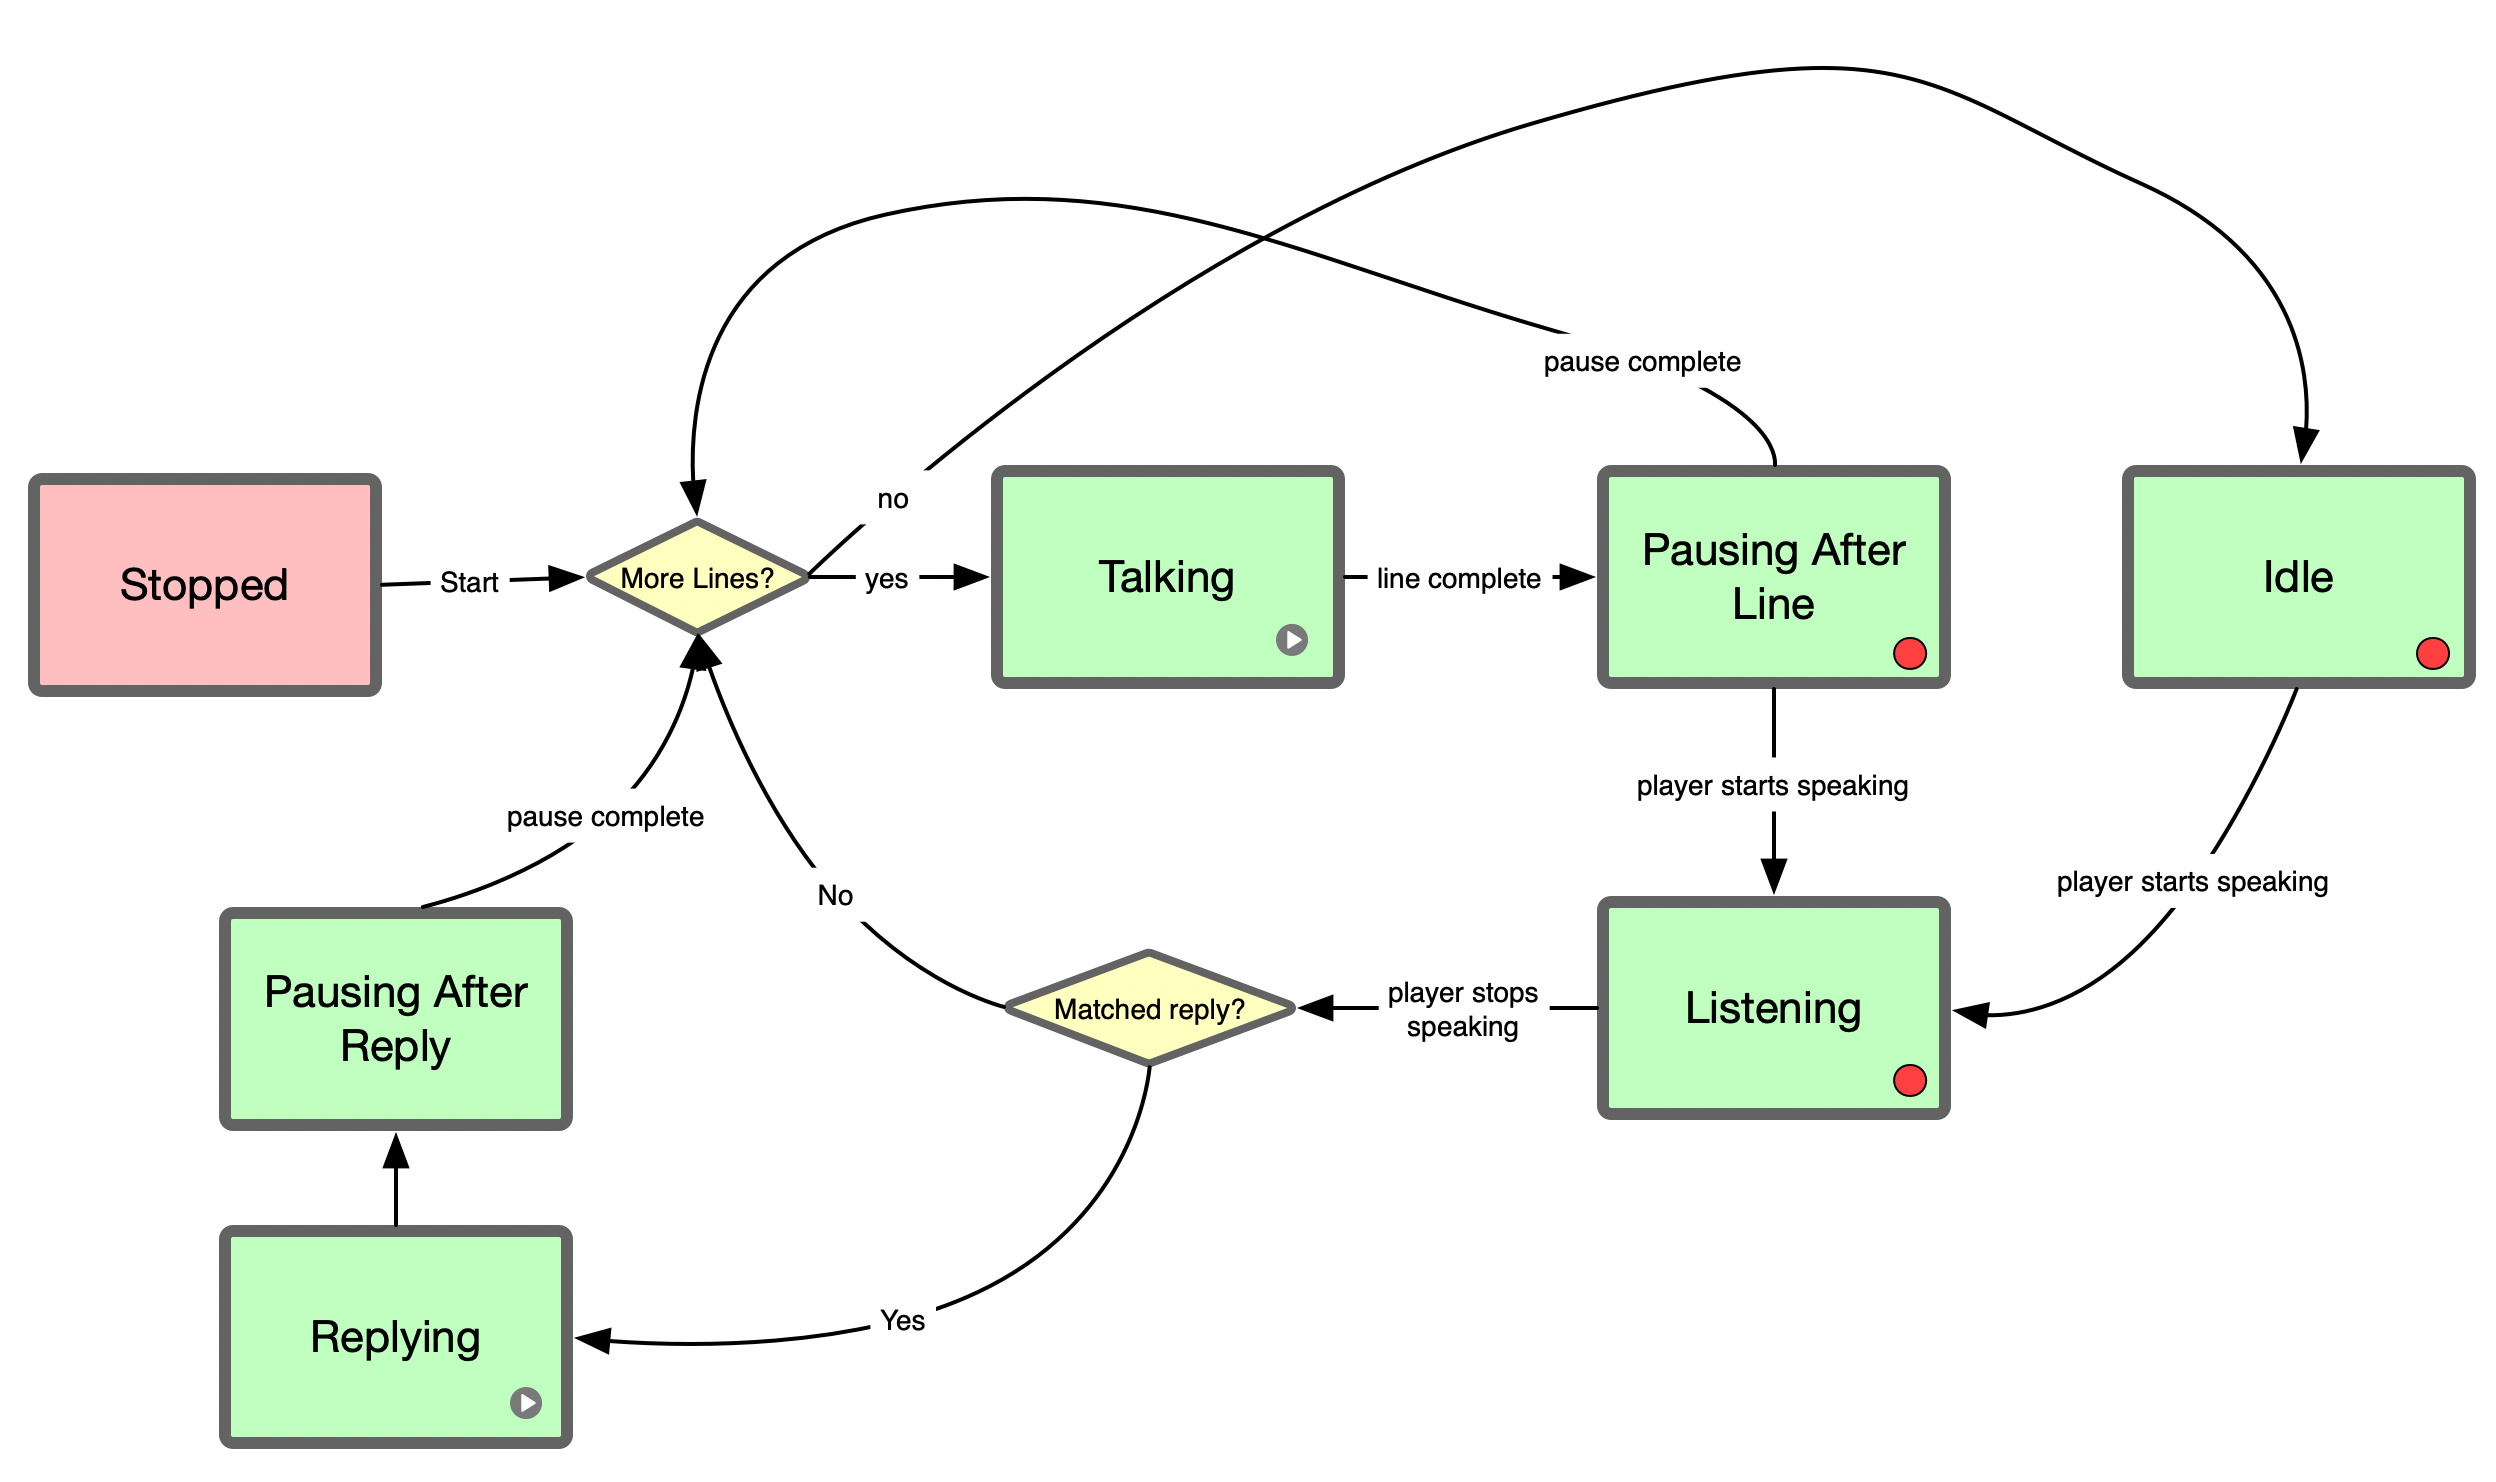
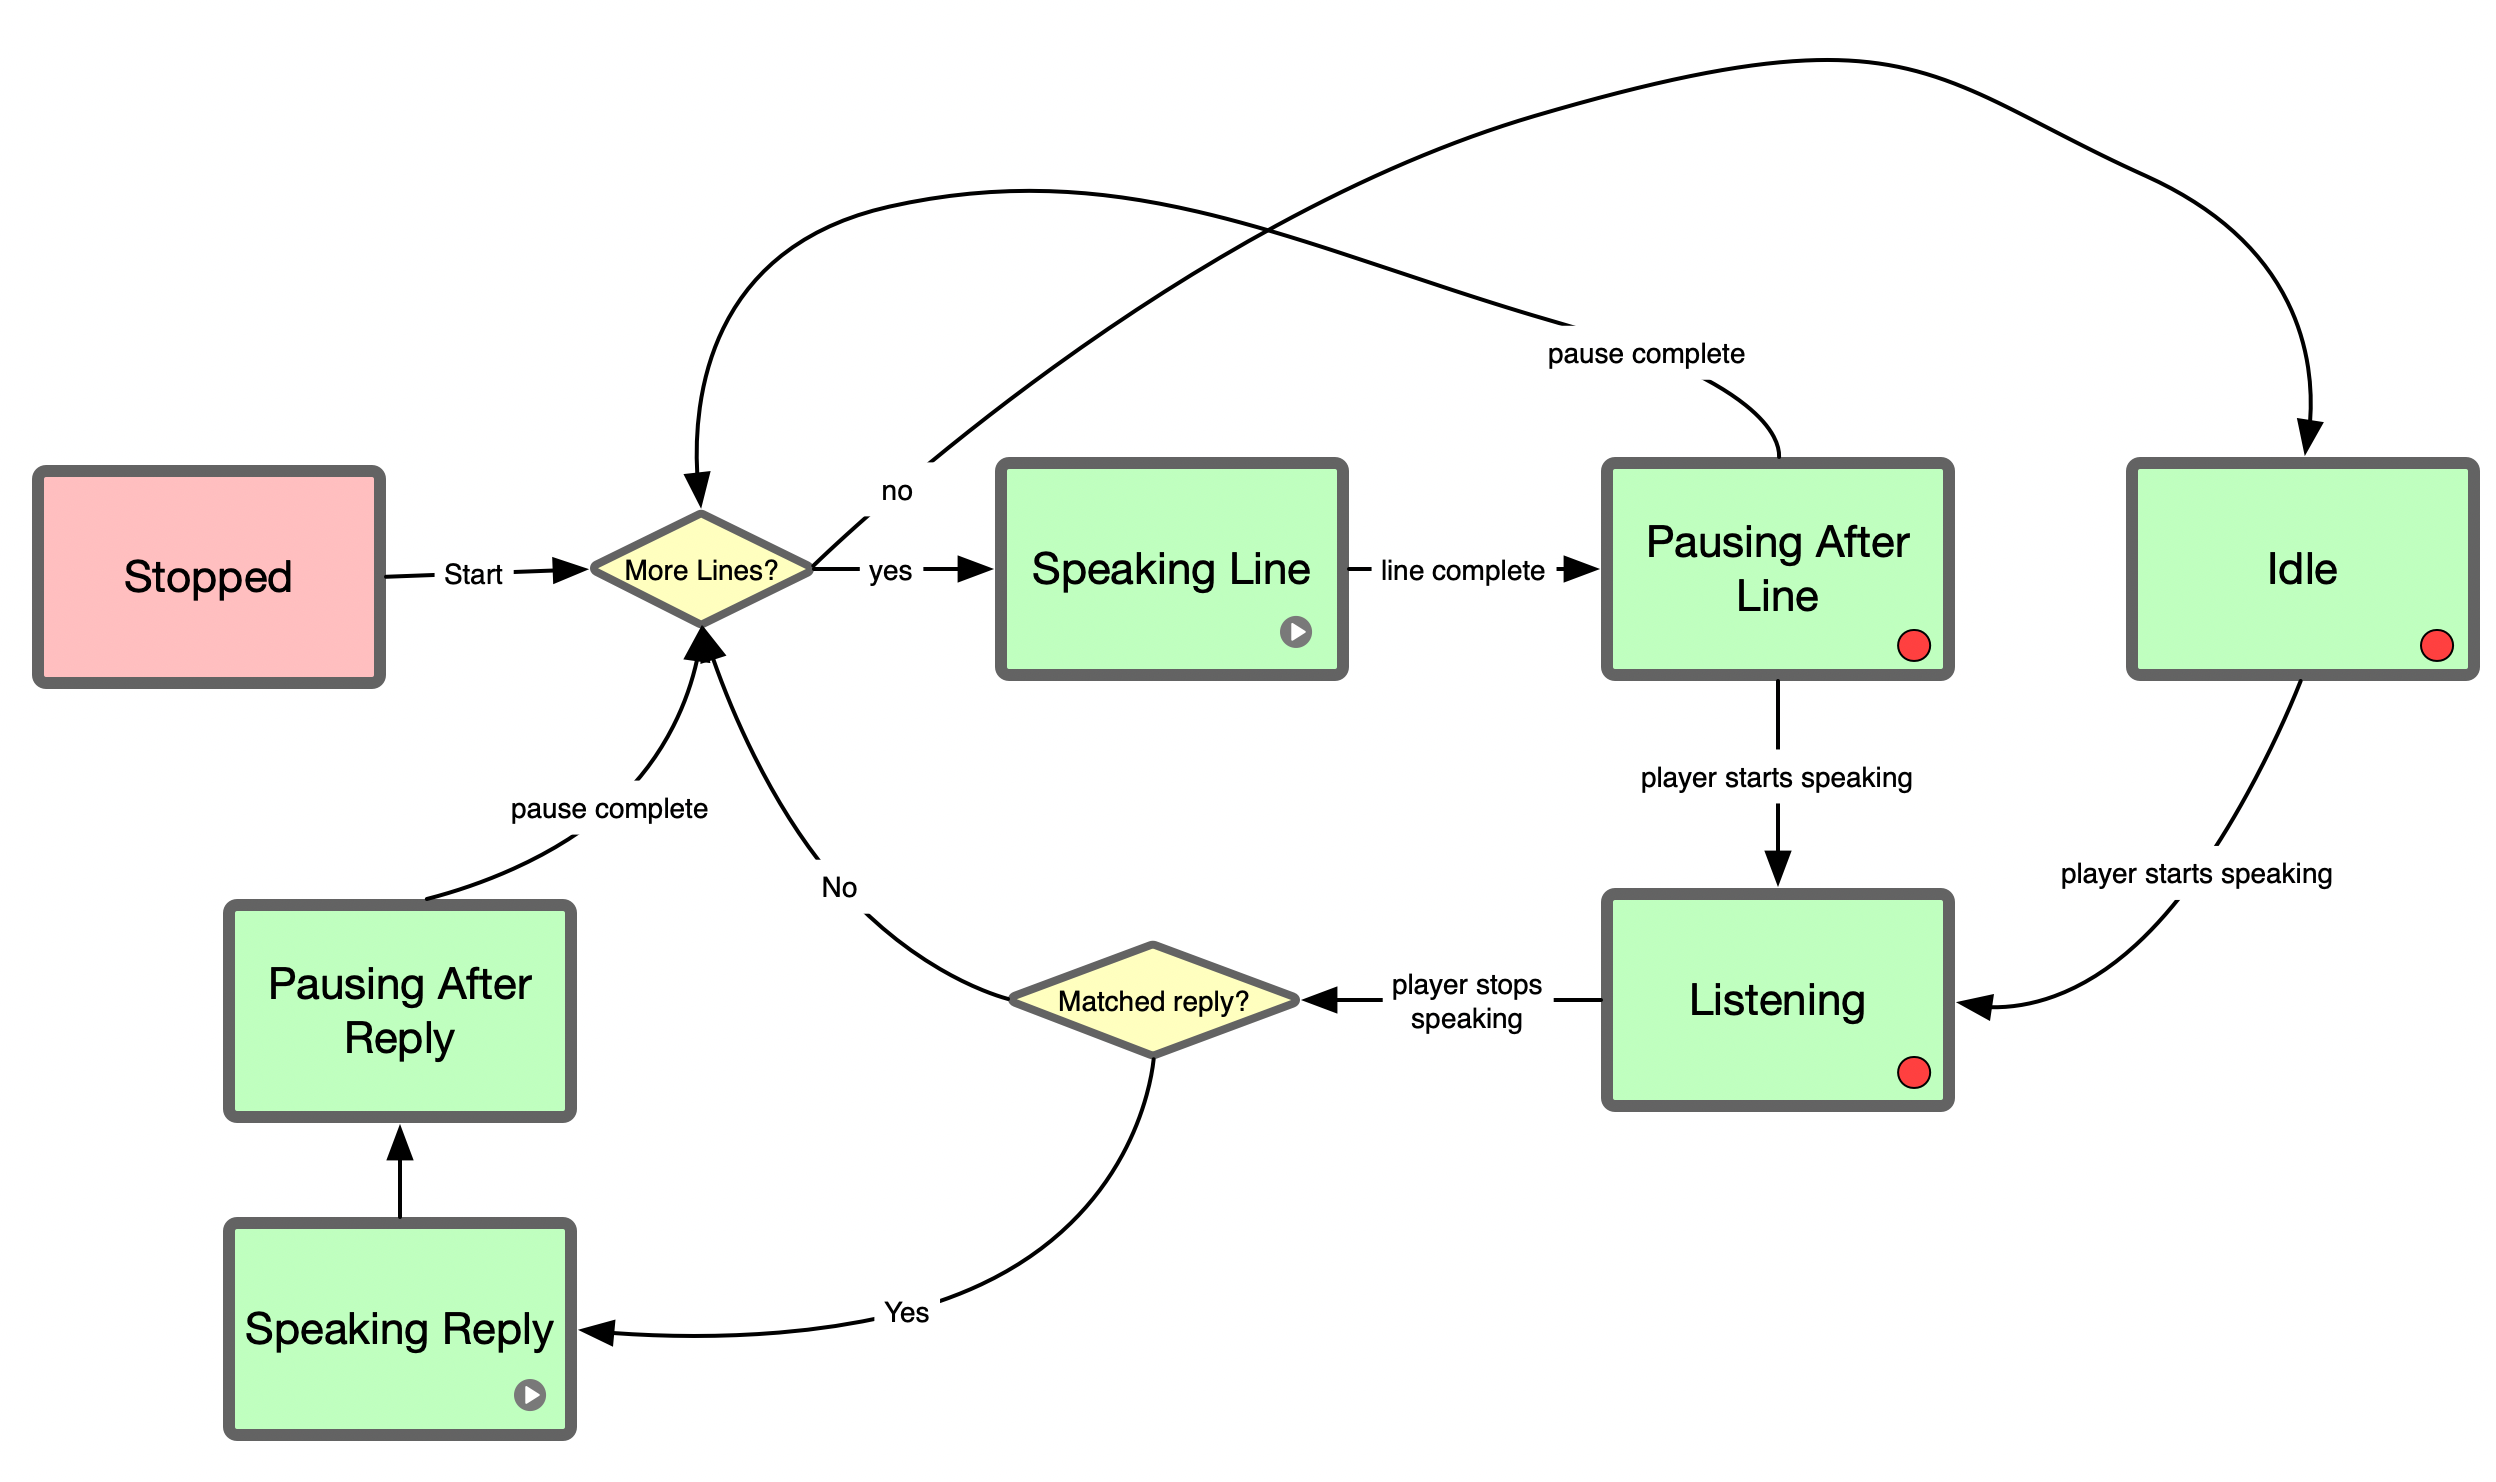
Added matching for replies.

diff --git a/src/conversations/ConversationManager.ts b/src/conversations/ConversationManager.ts
@@ -5,7 +5,7 @@ import {setSpeechAudioSpeakingFace} from "facesCommon/interactions/faceEventUtil
 import {UNSPECIFIED_NAME} from "persistence/projects";
 
 import {Emotion, FakeSpeechAudio, ISpeechAudio} from 'sl-web-face';
-import {Spiel} from 'sl-spiel';
+import {Spiel, SpielLine, SpielReply} from 'sl-spiel';
 import {calcEndOfDialoguePause, Recognizer} from "sl-web-speech";
 
 // See README.md for a description of the ConversationManager's state machine.
@@ -33,12 +33,13 @@ class ConversationManager {
   private _onSetEmotion: SetEmotionCallback|null;
   private _onTranscribe: TranscribeCallback|null;
   private _pendingPauseDuration: number;
+  private _pendingReply: SpielReply|null;
   private _recognizer: Recognizer|null;
   private _speedMultiplier: number;
   private _spiel: Spiel|null;
   private _spielName: string;
   private _state: ConversationState;
-  private _speechAudioIndex: SpeechAudioIndex|null;
+  private _speechAudioIndex: SpeechAudioIndex;
   
   constructor() {
     this._conversationSpeed = ConversationSpeed.SLOW;
@@ -48,6 +49,7 @@ class ConversationManager {
     this._onSetEmotion = null;
     this._onTranscribe = null;
     this._pendingPauseDuration = 0;
+    this._pendingReply = null;
     this._recognizer = null;
     this._speedMultiplier = getMultiplierForConversationSpeed(this._conversationSpeed);
     this._spiel = null;
@@ -55,8 +57,6 @@ class ConversationManager {
     this._state = ConversationState.STOPPED;
     this._speechAudioIndex = new SpeechAudioIndex();
   }
-
-  get state() { return this._state; }
   
   private _canStartListening(state:ConversationState) {
     return state === ConversationState.IDLE || state === ConversationState.PAUSE_AFTER_LINE;
@@ -89,9 +89,141 @@ class ConversationManager {
       this._goToStopped();
     }
   }
+  
+  private _handlePartial(text:string) {
+    if (!this._spiel) throw Error('Unexpected');
+    try {
+      this._lastPartialText = text;
+      if (this._state === ConversationState.LISTENING) {
+        this._pendingReply = this._spiel.checkForMatch(text);
+        if (this._pendingReply) return this._goToSpeakingReply();
+      }
+    } catch(e) {
+      console.error(e);
+      this._goToStopped();
+    }
+  }
 
-  bindSpeechAudioIndex(speechAudioIndex: SpeechAudioIndex) {
-    this._speechAudioIndex = speechAudioIndex;
+  private _stopAnySpeaking() {
+    if (this._currentSpeechAudio) this._currentSpeechAudio.stop();
+    this._currentSpeechAudio = null;
+  }
+
+  private _goToStopped() {
+    this._state = ConversationState.STOPPED;
+    try {
+      this._stopAnySpeaking();
+      if (this._recognizer) this._recognizer.mute();
+    } catch(e) {
+      console.error(e);
+    }
+  }
+  
+  private _startNextLineTimer() {
+    const startingState = this._state;
+    setTimeout(() => {
+      if (!this._spiel) throw Error('Unexpected');
+      if (this._state !== startingState) return;
+      if (!this._spiel.hasNext) return this._goToIdle();
+      this._spiel.moveNext();
+      this._goToSpeakingLine().then(() => {});
+    }, this._pendingPauseDuration);
+  }
+
+  private _goToPauseAfterLine() {
+    if (!this._recognizer) throw Error('Unexpected');
+    try {
+      this._stopAnySpeaking();
+      this._recognizer.unmute();
+      this._state = ConversationState.PAUSE_AFTER_LINE;
+      this._startNextLineTimer();
+    } catch(e) {
+      console.error(e);
+      this._goToStopped();
+    }
+  }
+
+  private _goToPauseAfterReply() {
+    if (!this._recognizer) throw Error('Unexpected');
+    try {
+      this._stopAnySpeaking();
+      this._recognizer.mute();
+      this._state = ConversationState.PAUSE_AFTER_REPLY;
+      this._startNextLineTimer();
+    } catch(e) {
+      console.error(e);
+      this._goToStopped();
+    }
+  }
+
+  private _goToListening() {
+    if (!this._recognizer) throw Error('Unexpected');
+    try {
+      this._stopAnySpeaking();
+      this._recognizer.unmute();
+      this._state = ConversationState.LISTENING;
+    } catch(e) {
+      console.error(e);
+      this._goToStopped();
+    }
+  }
+
+  private _goToIdle() {
+    if (!this._recognizer) throw Error('Unexpected');
+    try {
+      this._stopAnySpeaking();
+      this._recognizer.unmute();
+      this._state = ConversationState.IDLE;
+    } catch(e) {
+      console.error(e);
+      this._goToStopped();
+    }
+  }
+
+  private async _speak(line:SpielLine, onSpeakEnd:() => void) {
+    if (!this._spiel) throw Error('Unexpected');
+    const dialogue = line.nextDialogue();
+    const character = line.character;
+    const speechId = line.speechIds[line.lastDialogueNo];
+    const emotion = spielEmotionToEmotion(line.emotion);
+    
+    if (this._onSayLine) this._onSayLine(this._spiel.currentNodeIndex, character, emotion, dialogue);
+    if (this._onSetEmotion) this._onSetEmotion(spielEmotionToEmotion(line.emotion));
+    
+    this._stopAnySpeaking();
+    this._currentSpeechAudio = await this._speechAudioIndex.findSpeechAudio(this._spielName, character, speechId, dialogue);
+    if (!this._currentSpeechAudio) this._currentSpeechAudio = new FakeSpeechAudio(dialogue, this._speedMultiplier);
+    setSpeechAudioSpeakingFace(this._currentSpeechAudio);
+
+    this._pendingPauseDuration = calcEndOfDialoguePause(dialogue, this._speedMultiplier);
+    this._currentSpeechAudio.play(onSpeakEnd.bind(this));
+  }
+  
+  private async _goToSpeakingLine() {
+    const currentNode = this._spiel?.currentNode;
+    if (!this._spiel || !this._speechAudioIndex || !this._recognizer || !currentNode) throw Error('Unexpected');
+    try {
+      this._recognizer.mute();
+      this._state = ConversationState.SPEAKING_LINE;
+      await this._speak(currentNode.line, this._goToPauseAfterLine);
+    } catch(e) {
+      console.error(e);
+      this._goToStopped();
+    }
+  }
+
+  private async _goToSpeakingReply() {
+    if (!this._spiel || !this._recognizer || !this._pendingReply) throw Error('Unexpected');
+    try {
+      this._recognizer.mute();
+      this._state = ConversationState.SPEAKING_REPLY;
+      const { line } = this._pendingReply;
+      this._pendingReply = null;
+      await this._speak(line, this._goToPauseAfterReply);
+    } catch(e) {
+      console.error(e);
+      this._goToStopped();
+    }
   }
 
   bindOnSayLine(onSayLine: SayLineCallback) {
@@ -109,8 +241,8 @@ class ConversationManager {
   bindRecognizer(recognizer:Recognizer) {
     this._recognizer = recognizer;
     this._recognizer.bindCallbacks(
-      (_text:string) => { this._lastPartialText = _text; }, // TODO handle matching.
-      () => this._handleStartSpeaking(), 
+      (text:string) => this._handlePartial(text),
+      () => this._handleStartSpeaking(),
       () => this._handleStopSpeaking());
   }
 
@@ -120,128 +252,11 @@ class ConversationManager {
     this._conversationSpeed = conversationSpeed;
     this._speedMultiplier = getMultiplierForConversationSpeed(this._conversationSpeed);
   }
-  
-  _stopAnySpeaking() {
-    if (this._currentSpeechAudio) this._currentSpeechAudio.stop();
-    this._currentSpeechAudio = null;
-  }
-  
-  _goToStopped() {
-    this._state = ConversationState.STOPPED;
-    try {
-      this._stopAnySpeaking();
-      if (this._recognizer) this._recognizer.mute();
-    } catch(e) {
-      console.error(e);
-    }
-  }
-  
-  _goToPauseAfterLine() {
-    if (!this._recognizer) throw Error('Unexpected');
-    try {
-      this._stopAnySpeaking();
-      this._recognizer.unmute();
-      this._state = ConversationState.PAUSE_AFTER_LINE;
 
-      setTimeout(() => {
-        if (!this._spiel) throw Error('Unexpected');
-        if (this._state !== ConversationState.PAUSE_AFTER_LINE) return;
-        if (!this._spiel.hasNext) return this._goToIdle();
-        this._spiel.moveNext();
-        this._goToSpeakingLine().then(() => {});
-      }, this._pendingPauseDuration);
-      
-    } catch(e) {
-      console.error(e);
-      this._goToStopped();
-    }
-  }
-  
-  _goToPauseAfterReply() {
-    if (!this._recognizer) throw Error('Unexpected');
-    try {
-      this._stopAnySpeaking();
-      this._recognizer.mute();
-      this._state = ConversationState.PAUSE_AFTER_REPLY;
-  
-      // TODO
-    } catch(e) {
-      console.error(e);
-      this._goToStopped();
-    }
-  }
-  
-  _goToListening() {
-    if (!this._recognizer) throw Error('Unexpected');
-    try {
-      this._stopAnySpeaking();
-      this._recognizer.unmute();
-      this._state = ConversationState.LISTENING;
-    } catch(e) {
-      console.error(e);
-      this._goToStopped();
-    }
-  }
-  
-  _goToIdle() {
-    if (!this._recognizer) throw Error('Unexpected');
-    try {
-      this._stopAnySpeaking();
-      this._recognizer.unmute();
-      this._state = ConversationState.IDLE;
-    } catch(e) {
-      console.error(e);
-      this._goToStopped();
-    }
-  }
-  
-  async _goToSpeakingLine() {
-    const currentNode = this._spiel?.currentNode;
-    if (!this._spiel || !this._speechAudioIndex || !this._recognizer || !currentNode) throw Error('Unexpected');
-    try {
-      this._recognizer.mute();
-      this._state = ConversationState.SPEAKING_LINE;
-  
-      const dialogue = currentNode.line.nextDialogue();
-      const character = currentNode.line.character;
-      const speechId = currentNode.line.speechIds[currentNode.line.lastDialogueNo];
-      const emotion = spielEmotionToEmotion(currentNode.line.emotion);
-      if (this._onSayLine) this._onSayLine(this._spiel.currentNodeIndex, character, emotion, dialogue);
-      if (this._onSetEmotion) this._onSetEmotion(spielEmotionToEmotion(currentNode.line.emotion));
-
-      this._stopAnySpeaking();
-      this._currentSpeechAudio = await this._speechAudioIndex.findSpeechAudio(this._spielName, character, speechId, dialogue);
-      if (!this._currentSpeechAudio) this._currentSpeechAudio = new FakeSpeechAudio(dialogue, this._speedMultiplier);
-      setSpeechAudioSpeakingFace(this._currentSpeechAudio);
-
-      this._pendingPauseDuration = calcEndOfDialoguePause(dialogue, this._speedMultiplier);
-      this._currentSpeechAudio.play(this._goToPauseAfterLine.bind(this));
-    } catch(e) {
-      console.error(e);
-      this._goToStopped();
-    }
-  }
-  
-  _goToSpeakingReply() {
-    if (!this._recognizer) throw Error('Unexpected');
-    try {
-      this._recognizer.mute();
-      this._state = ConversationState.SPEAKING_REPLY;
-      
-      // TODO
-    } catch(e) {
-      console.error(e);
-      this._goToStopped();
-    }
-  }
-  
-  private _throwIfNotReadyToPlay():void {
-    if (!this._recognizer) throw Error('Bind recognizer before playing');
-    if (!this._speechAudioIndex) throw Error('Bind speech audio index before playing');
-  }
+  get state() { return this._state; }
 
   play(spiel: Spiel, spielName:string) {
-    this._throwIfNotReadyToPlay();
+    if (!this._recognizer) throw Error('Bind recognizer before playing');
     this._spiel = spiel.duplicate();
     this._spielName = spielName;
     this._goToSpeakingLine();

diff --git a/src/conversations/README.md b/src/conversations/README.md
@@ -4,33 +4,33 @@
 
 * STOPPED - mic off
   * User clicks "start".
-  * If more lines, go to TALKING.
+  * If more lines, go to SPEAKING LINE.
   * If no more lines, go to IDLE.
   
-* TALKING - mic off, playing speech.
+* SPEAKING LINE - mic off, playing speech.
   * When speech ends, go to PAUSING AFTER LINE.
   
 * PAUSING AFTER LINE - mic ON
   * If player speaks, go to LISTENING.
   * If pause ends...
-    * If more lines, go to TALKING.
+    * If more lines, go to SPEAKING LINE.
     * If no more lines, go to IDLE.
     
 * LISTENING - mic ON, player speaking
   * When player stops speaking...
-    * If matched reply, go to REPLYING.
+    * If matched reply, go to SPEAKING REPLY.
     * If no match...
-      * If more lines, go to TALKING.
+      * If more lines, go to SPEAKING LINE.
       * If no more lines, go to IDLE.
       
 * IDLE - mic ON
   * If player speaks, go to LISTENING.
   
-* REPLYING - mic off, playing speech
+* SPEAKING REPLY - mic off, playing speech
   * When speech ends, go to PAUSING AFTER REPLY.
   
 * PAUSING AFTER REPLY - mic off
   * When pause ends...
-    * If more lines, go to TALKING.
+    * If more lines, go to SPEAKING LINE.
     * If no more lines, go to IDLE.
 
